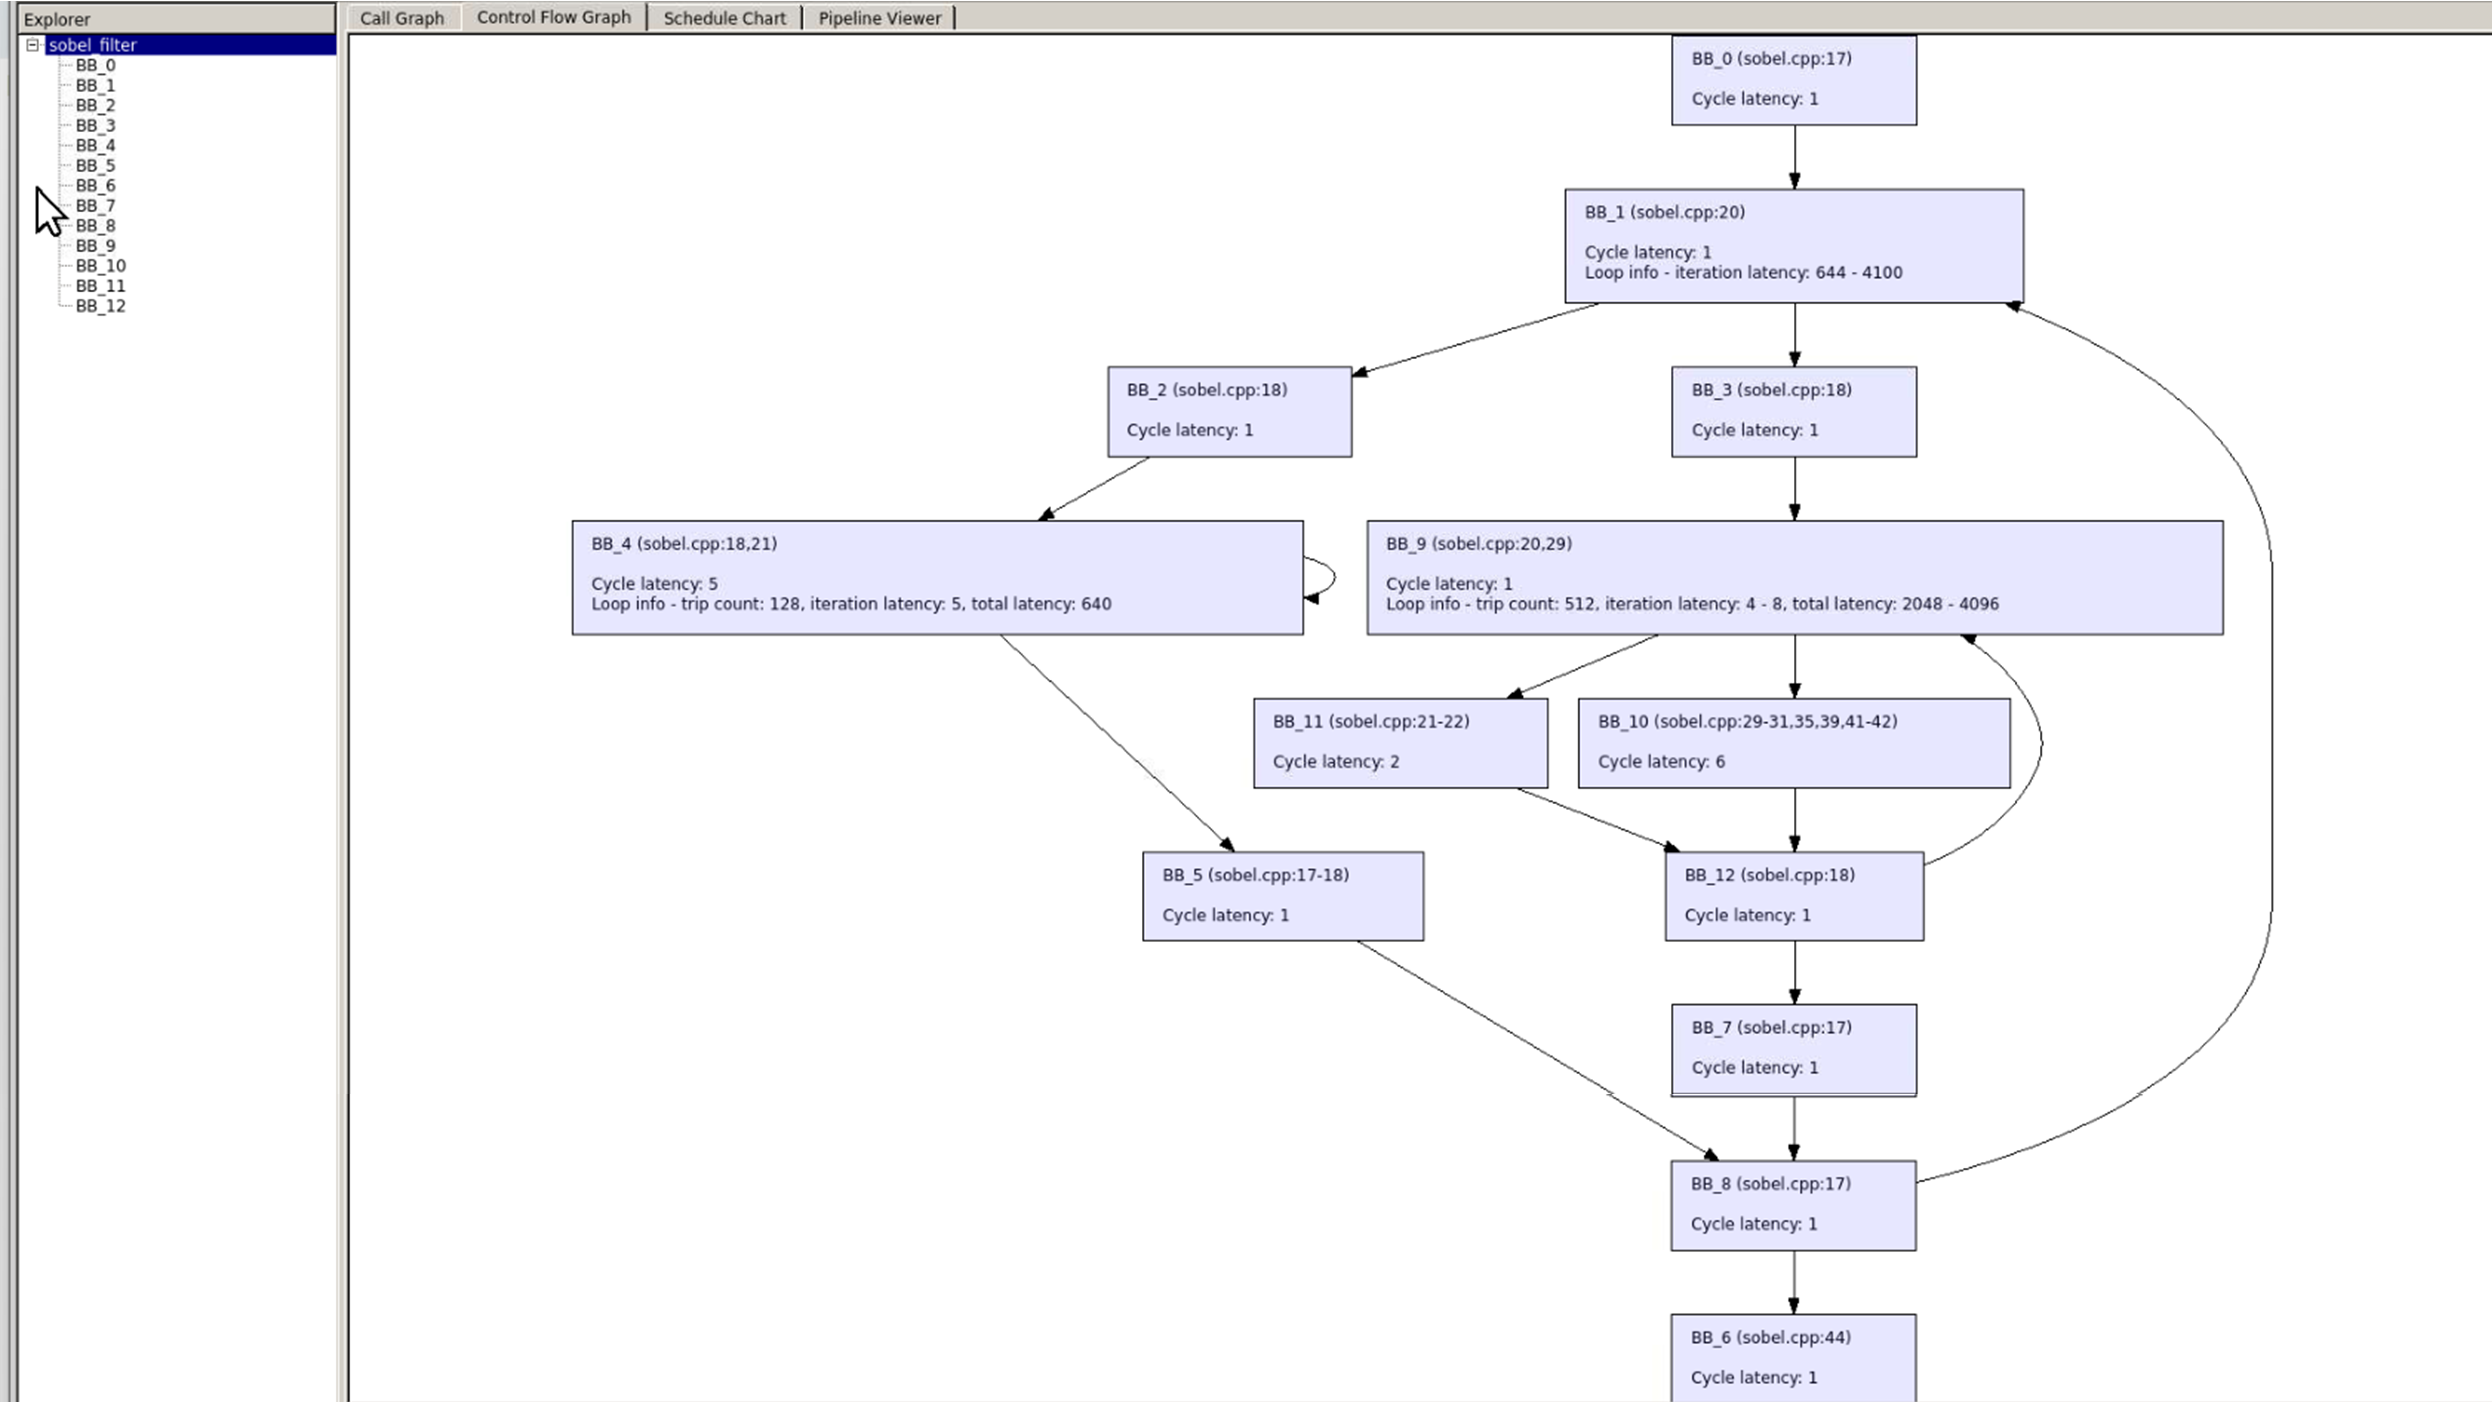
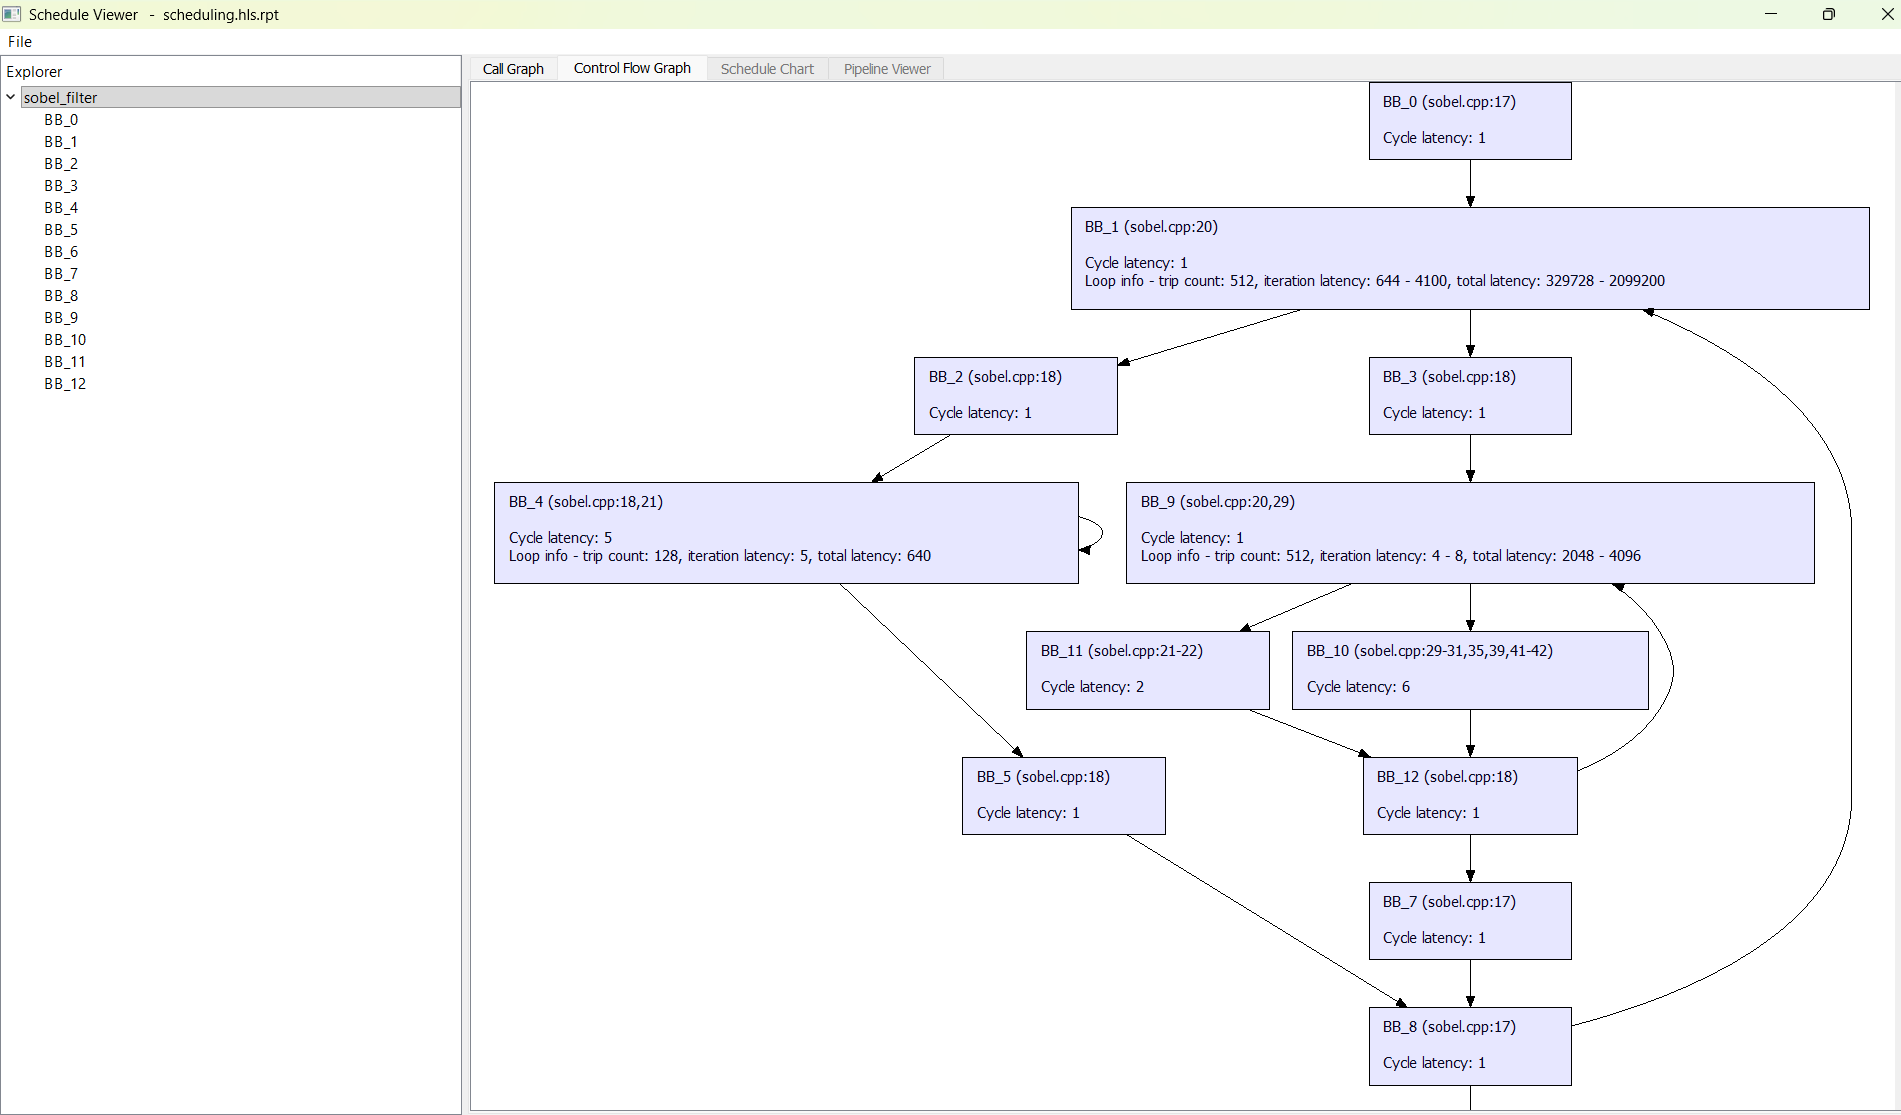
Update sobel tutorial training doc, media, and part3 sobel.cpp

diff --git a/sobel_tutorial/part3/sobel.cpp b/sobel_tutorial/part3/sobel.cpp
@@ -25,7 +25,7 @@ void sobel_filter(FIFO<unsigned char> &input_fifo,
     int x = 0;
     int y = 0;
 #pragma HLS loop pipeline
-    for (int i = 0; i < (HEIGHT * WIDTH + LineBufferFillCount); i++) {
+    for (unsigned i = 0; i < (HEIGHT * WIDTH + LineBufferFillCount); i++) {
 
         // Read input pixel from FIFO and put into the line buffer.
         unsigned char input_pixel = 0;

diff --git a/sobel_tutorial/trainingdoc.md b/sobel_tutorial/trainingdoc.md
@@ -397,12 +397,12 @@ messages near the end of the simulation which will look like this:
 
 ```
 ...
-# sobel_filter_top execution time (cycles):     2088212
+# sobel_filter_top execution time (cycles):     2088211
 # Number of calls:           1
 # sobel_filter_top simulation time (cycles):     2088213
 # ** Note: $finish    : cosim_tb.sv(427)
 #    Time: 20882235 ns  Iteration: 1  Instance: /cosim_tb
-# End time: 11:43:38 on May 30,2025, Elapsed time: 0:00:47
+# End time: 14:37:31 on Aug 05,2026, Elapsed time: 0:00:22
 # Errors: 0, Warnings: 0
 Info: Verifying RTL simulation
 Retrieving hardware outputs from RTL simulation for sobel_filter function call 1.
@@ -412,7 +412,7 @@ Simulation time (cycles): 2,088,213
 SW/HW co-simulation: PASS
 ```
 
-We see that the co-simulation took 2,087,960 clock cycles to finish. The
+We see that the co-simulation took 2,088,213 clock cycles to finish. The
 simulation printed “`SW/HW co-simulation: PASS!`” which indicates that
 the RTL generated by SmartHLS matches the software model.
 
@@ -475,7 +475,7 @@ tool flow.
 +--------------+---------------+-------------+-------------+----------+-------------+
 | Clock Domain | Target Period | Target Fmax | Worst Slack | Period   | Fmax        |
 +--------------+---------------+-------------+-------------+----------+-------------+
-| clk          | 10.000 ns     | 100.000 MHz | 8.224 ns    | 1.776 ns | 563.063 MHz |
+| clk          | 10.000 ns     | 100.000 MHz | 8.006 ns    | 1.994 ns | 501.505 MHz |
 +--------------+---------------+-------------+-------------+----------+-------------+
 
 The reported Fmax is for the HLS core in isolation (from Libero's post-place-and-route timing analysis).
@@ -486,12 +486,12 @@ When the HLS core is integrated into a larger system, the system Fmax may be low
 +--------------------------+---------------+--------+------------+
 | Resource Type            | Used          | Total  | Percentage |
 +--------------------------+---------------+--------+------------+
-| Fabric + Interface 4LUT* | 611 + 0 = 611 | 299544 | 0.20       |
-| Fabric + Interface DFF*  | 327 + 0 = 327 | 299544 | 0.11       |
-| User I/O                 | 0             |  512   | 0.00       |
-| uSRAM                    | 0             | 2772   | 0.00       |
-| LSRAM                    | 0             | 952    | 0.00       |
-| Math                     | 0             | 924    | 0.00       |
+| Fabric + Interface 4LUT* | 617 + 0 = 617 | 108600 | 0.57       |
+| Fabric + Interface DFF*  | 339 + 0 = 339 | 108600 | 0.31       |
+| User I/O                 | 0             | 284    | 0.00       |
+| uSRAM                    | 0             | 1008   | 0.00       |
+| LSRAM                    | 0             | 352    | 0.00       |
+| Math                     | 0             | 336    | 0.00       |
 +--------------------------+---------------+--------+------------+
 
 * Interface 4LUTs and DFFs are occupied due to the uses of LSRAM, Math, and uSRAM.
@@ -627,23 +627,28 @@ design in ModelSim by clicking the *SW/HW Co-Simulation* icon
 similar to the following:
 
 ```
-# sobel_filter_top execution time (cycles):     1040407
+# sobel_filter_top execution time (cycles):     1048582
 # Number of calls:           1
-# sobel_filter_top simulation time (cycles):     1040408
-# ** Note: $finish    : cosim_tb.sv(427)
-#    Time: 10404195 ns  Iteration: 1  Instance: /cosim_tb
-# End time: 13:22:26 on May 30 07,2025, Elapsed time: 0:00:30
-# Errors: 0, Warnings: 0, Suppressed Warnings: 6
+# sobel_filter_top simulation time (cycles):     1048584
+# ** Note: $finish    : cosim_tb.sv(434)
+#    Time: 10485945 ns  Iteration: 1  Instance: /cosim_tb
+# End time: 15:55:08 on Aug 05,2026, Elapsed time: 0:00:16
+# Errors: 0, Warnings: 0
 Info: Verifying RTL simulation
 Retrieving hardware outputs from RTL simulation for sobel_filter function call 1.
 PASS!
-...
-Simulation time (cycles): 1,040,408
++------------------+-----------------+--------------------------+----------------------------+-----------------------+
+| Top-Level Name   | Number of calls | Simulation time (cycles) | Call Latency (min/max/avg) | Call II (min/max/avg) |
++------------------+-----------------+--------------------------+----------------------------+-----------------------+
+| sobel_filter_top | 1               | 1,048,584                | 1,048,582 (single call)    | N/A (single call)     |
++------------------+-----------------+--------------------------+----------------------------+-----------------------+
+Simulation time (cycles): 1,048,584
 SW/HW co-simulation: PASS
+
 ```
 
 Observe that loop pipelining has dramatically improved the cycle latency
-for the design, reducing it from 2,088,213 cycles to 1,040,407 cycles in
+for the design, reducing it from 2,088,213 cycles to 1,048,584  cycles in
 total.
 
 ![](.//media/image2.png) Finally, use Microchip’s Libero® to map the
@@ -659,7 +664,7 @@ following:
 +--------------+---------------+-------------+-------------+----------+-------------+
 | Clock Domain | Target Period | Target Fmax | Worst Slack | Period   | Fmax        |
 +--------------+---------------+-------------+-------------+----------+-------------+
-| clk          | 10.000 ns     | 100.000 MHz | 7.276 ns    | 2.724 ns | 367.107 MHz |
+| clk          | 10.000 ns     | 100.000 MHz | 6.942 ns    | 3.058 ns | 327.011 MHz |
 +--------------+---------------+-------------+-------------+----------+-------------+
 
 The reported Fmax is for the HLS core in isolation (from Libero's post-place-and-route timing analysis).
@@ -670,12 +675,12 @@ When the HLS core is integrated into a larger system, the system Fmax may be low
 +--------------------------+---------------+--------+------------+
 | Resource Type            | Used          | Total  | Percentage |
 +--------------------------+---------------+--------+------------+
-| Fabric + Interface 4LUT* | 709 + 0 = 709 | 299544 | 0.24       |
-| Fabric + Interface DFF*  | 336 + 0 = 336 | 299544 | 0.11       |
-| User I/O                 | 0             | 512    | 0.00       |
-| uSRAM                    | 0             | 2772   | 0.00       |
-| LSRAM                    | 0             | 952    | 0.00       |
-| Math                     | 0             | 924    | 0.00       |
+| Fabric + Interface 4LUT* | 818 + 0 = 818 | 108600 | 0.75       |
+| Fabric + Interface DFF*  | 349 + 0 = 349 | 108600 | 0.32       |
+| User I/O                 | 0             | 284    | 0.00       |
+| uSRAM                    | 0             | 1008   | 0.00       |
+| LSRAM                    | 0             | 352    | 0.00       |
+| Math                     | 0             | 336    | 0.00       |
 +--------------------------+---------------+--------+------------+
 
 * Interface 4LUTs and DFFs are occupied due to the uses of LSRAM, Math, and uSRAM.
@@ -906,7 +911,7 @@ results similar to the following in the `summary.results.rpt` report file:
 +--------------+---------------+-------------+-------------+----------+-------------+
 | Clock Domain | Target Period | Target Fmax | Worst Slack | Period   | Fmax        |
 +--------------+---------------+-------------+-------------+----------+-------------+
-| clk          | 10.000 ns     | 100.000 MHz | 5.239 ns    | 4.761 ns | 210.040 MHz |
+| clk          | 10.000 ns     | 100.000 MHz | 5.456 ns    | 4.544 ns | 220.070 MHz |
 +--------------+---------------+-------------+-------------+----------+-------------+
 
 The reported Fmax is for the HLS core in isolation (from Libero's post-place-and-route timing analysis).
@@ -917,16 +922,16 @@ When the HLS core is integrated into a larger system, the system Fmax may be low
 +--------------------------+----------------+--------+------------+
 | Resource Type            | Used           | Total  | Percentage |
 +--------------------------+----------------+--------+------------+
-| Fabric + Interface 4LUT* | 691 + 36 = 727 | 299544 | 0.24       |
-| Fabric + Interface DFF*  | 491 + 36 = 527 | 299544 | 0.18       |
-| User I/O                 | 0              | 512    | 0.00       |
-| uSRAM                    | 0              | 2772   | 0.00       |
-| LSRAM                    | 1              | 952    | 0.11       |
-| Math                     | 0              | 924    | 0.00       |
+| Fabric + Interface 4LUT* | 637 + 36 = 673 | 108600 | 0.62       |
+| Fabric + Interface DFF*  | 497 + 36 = 533 | 108600 | 0.49       |
+| User I/O                 | 0              | 284    | 0.00       |
+| uSRAM                    | 0              | 1008   | 0.00       |
+| LSRAM                    | 1              | 352    | 0.28       |
+| Math                     | 0              | 336    | 0.00       |
 +--------------------------+----------------+--------+------------+
 
 * Interface 4LUTs and DFFs are occupied due to the uses of LSRAM, Math, and uSRAM.
-  Number of interface 4LUTs/DFFs = (36 * #.LSRAM) + (36 * #.Math) + (12 * #.uSRAM) = (36 * 1) + (36 * 0) + (12 * 0) = 36. 
+  Number of interface 4LUTs/DFFs = (36 * #.LSRAM) + (36 * #.Math) + (12 * #.uSRAM) = (36 * 1) + (36 * 0) + (12 * 0) = 36.
 ```
 
 SmartHLS also allows the user to give a target clock period constraint,
@@ -944,7 +949,7 @@ but can also have less area.
 icon ![](.//media/image61.png) where we can change the target clock
 period constraint. As shown in Figure 21, select “Set target clock
 period” for *Constraint Type* and set *Constraint Value* to the desired
-clock period in nanoseconds: “6”. Then you must click the “Add” button.
+clock period in nanoseconds: “3”. Then you must click the “Add” button.
 After pressing Add, the constraint will appear in the list of active HLS
 constraints. Then click OK.
 
@@ -970,7 +975,7 @@ file:
 +-------------------------+----------------------+------------+-------------------+----+---------------+
 | Loop                    | Location In Source   | Trip Count | Iteration Latency | II | Total Latency |
 +-------------------------+----------------------+------------+-------------------+----+---------------+
-| for.loop:sobel.cpp:28:5 | line 28 of sobel.cpp | 262657     | 3                 | 1  | 262659        |
+| for.loop:sobel.cpp:28:5 | line 28 of sobel.cpp | 262657     | 7                 | 1  | 262663        |
 +-------------------------+----------------------+------------+-------------------+----+---------------+
 ```
 
@@ -1144,19 +1149,16 @@ for (int i = 0; i < HEIGHT; i++) {
 ```
 
 ![](.//media/image2.png) Now, re-run Software to Hardware by clicking
-the ![](.//media/image77.png) icon. Notice that the iteration latency of the `for` loop varies from 517 to 2054, depending on the branching done in the inner loop. As a result, the II is undefined (or nondeterministic). However, you *can* see the II of the inner loop for each branching possibility by looking at the two lines for the inner loop. We can see that one branch gives an II of 4, and the other an II of 1
+the ![](.//media/image77.png) icon. Notice that the iteration latency of the `for` loop is 2052. As a result, the II is undefined (or nondeterministic). However, you *can* see the II of the inner loop for each branching possibility by looking at the two lines for the inner loop. We can see that one branch gives an II of 4, and the other an II of 1
 
 ```
-====== 2. Function and Loop Scheduling Results ======
-
 +-------------------------------------------------------------------------------------------------------------+
-| Function: sobel_filter                                                                                      |
+| Function: sobel_filter takes 1050628 cycles                                                                 |
 +-----------------------------+----------------------+------------+-------------------+-------+---------------+
 | Loop                        | Location In Source   | Trip Count | Iteration Latency | II    | Total Latency |
 +-----------------------------+----------------------+------------+-------------------+-------+---------------+
-| for.loop:sobel.cpp:17:5     | line 17 of sobel.cpp | undef      | 517 - 2054        | undef | undef         |
-| ├── for.loop:sobel.cpp:19:9 | line 19 of sobel.cpp | 512        | 6                 | 4     | 2050          |
-| └── for.loop:sobel.cpp:19:9 | line 19 of sobel.cpp | 512        | 2                 | 1     | 513           |
+| for.loop:sobel.cpp:17:5     | line 17 of sobel.cpp | 512        | 2052              | undef | 1050624       |
+| └── for.loop:sobel.cpp:19:9 | line 19 of sobel.cpp | 512        | 6                 | 4     | 2050          |
 +-----------------------------+----------------------+------------+-------------------+-------+---------------+
 ```
 
@@ -1190,11 +1192,11 @@ for (int i = 0; i < (HEIGHT - 2) * (WIDTH - 2); i++) {
 ====== 2. Function and Loop Scheduling Results ======
 
 +------------------------------------------------------------------------------------------------------+
-| Function: sobel_filter takes 1040406 cycles                                                          |
+| Function: sobel_filter takes 1048582 cycles                                                          |
 +-------------------------+----------------------+------------+-------------------+----+---------------+
 | Loop                    | Location In Source   | Trip Count | Iteration Latency | II | Total Latency |
 +-------------------------+----------------------+------------+-------------------+----+---------------+
-| for.loop:sobel.cpp:20:5 | line 20 of sobel.cpp | 260100     | 6                 | 4  | 1040402       |
+| for.loop:sobel.cpp:20:5 | line 20 of sobel.cpp | 262144     | 6                 | 4  | 1048578       |
 +-------------------------+----------------------+------------+-------------------+----+---------------+
 ```
 
@@ -1206,14 +1208,14 @@ cycles).
 ![](.//media/image78.png) we see the Console output below:
 
 ```
-Simulation time (cycles): 1,040,408
+Simulation time (cycles): 1,048,584
 SW/HW co-simulation: PASS
 ``` 
 
 This cycle latency roughly corresponds to the 1,040,402 latency reported
 in the last column “Latency” in the pipeline summary report.
 
-Flattening the loop improves the cycle latency from: Simulation time (cycles): 1,049,599 to 1,040,408 (0.9% improvement).
+Flattening the loop improves the cycle latency from: Simulation time (cycles): 1,050,629 to 1,048,584 (0.2% improvement).
 
 In this case, there is not much improvement by loop flattening. But
 depending on the loop nest there can be a big impact.
